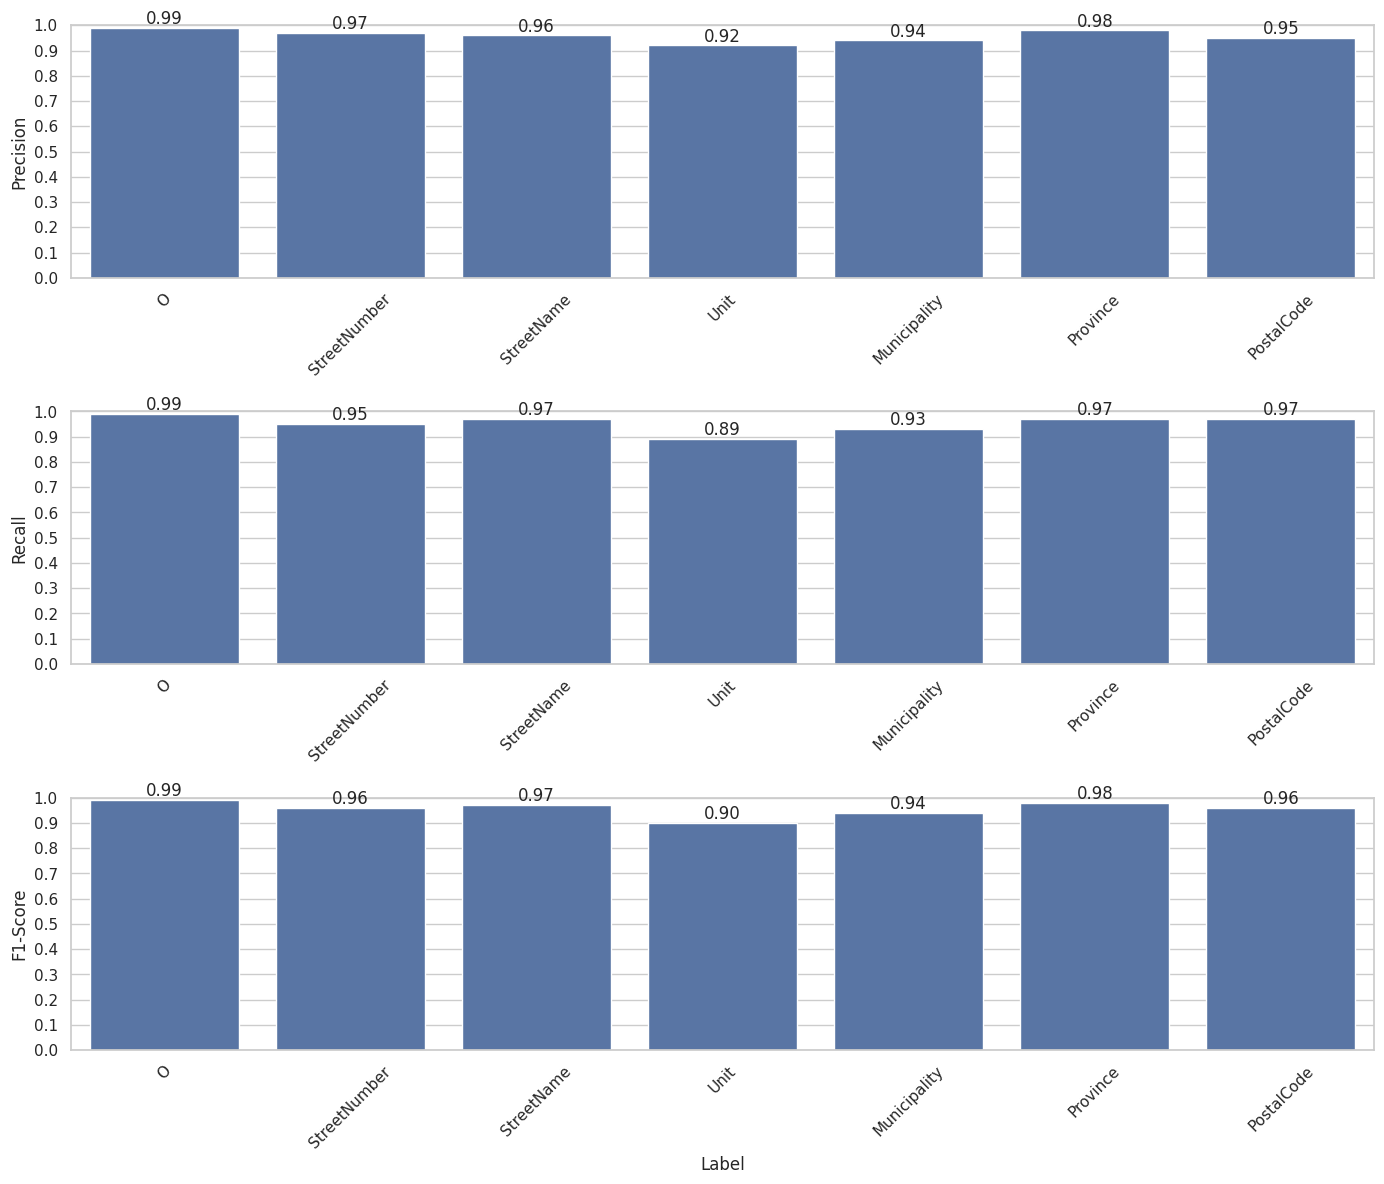
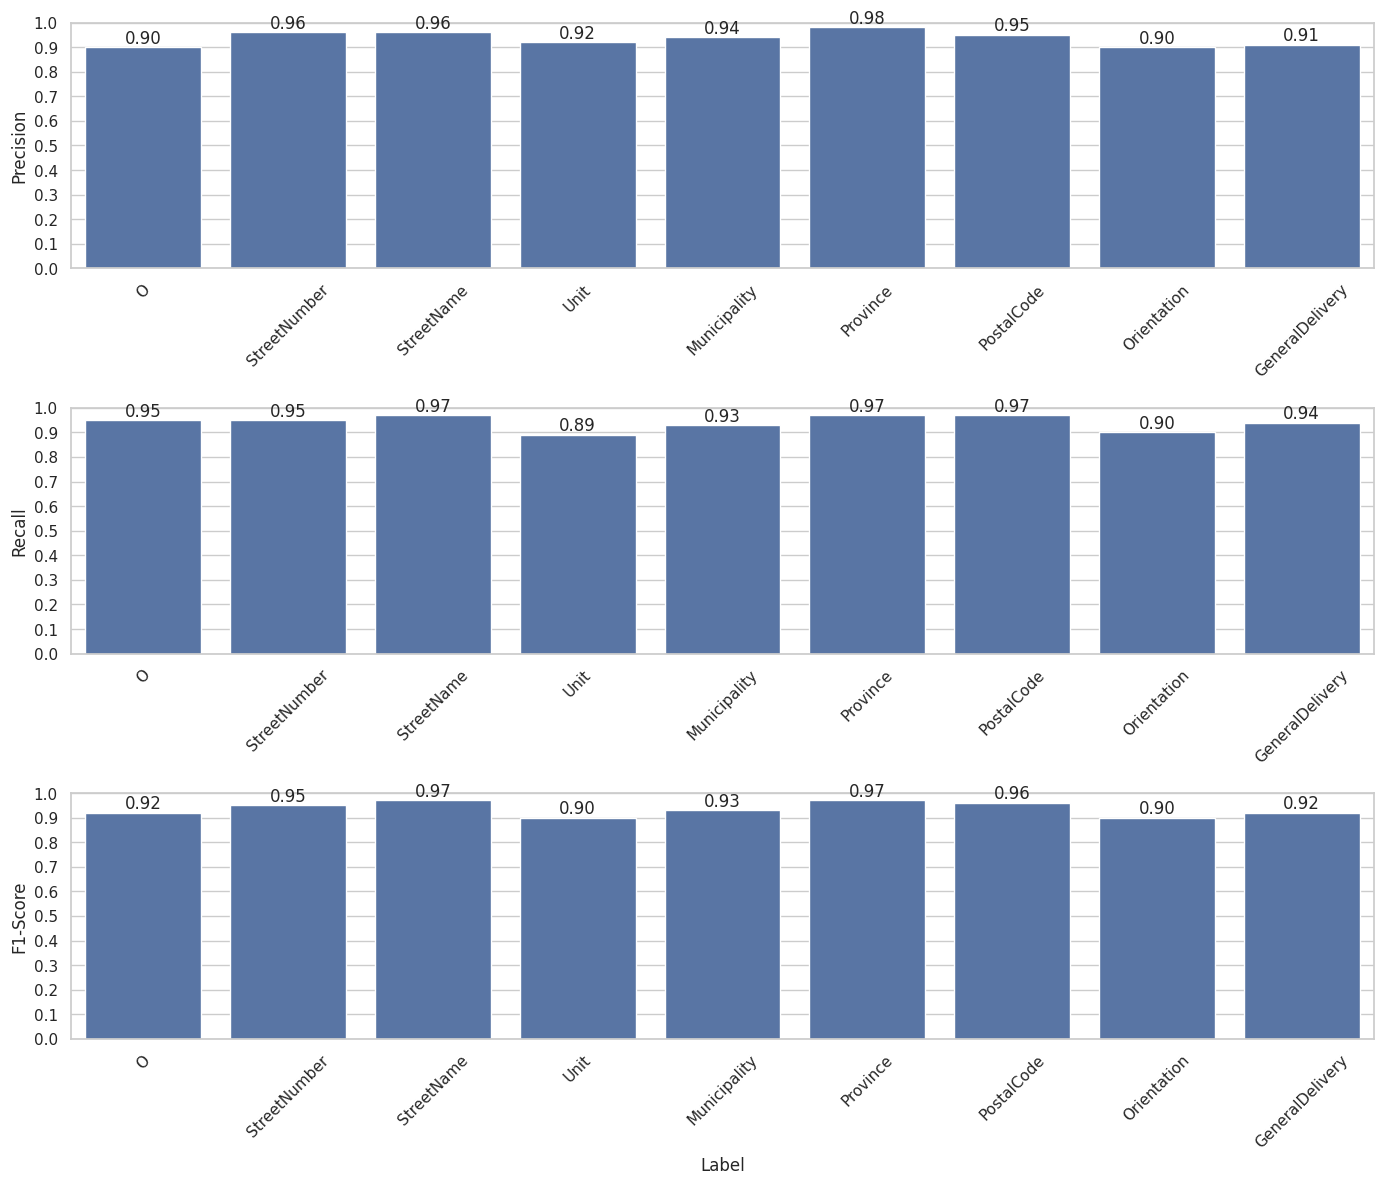
DIAGRAM README METRICS

diff --git a/README.md b/README.md
@@ -52,7 +52,7 @@ After that the scraper sorts the found  addresses based on their probability and
 ## Formatting the address
 
 The model has a good accuracy, but given the incredible variability we can't use only the first prediction in the list, so we have to make use of all of them.
-To formatt the address, the regex approach doesn't yield good results for only one country, let alone 10 or 20 more, so a NER model approach is preffered.  
+To format the address, the regex approach doesn't yield good results for only one country, let alone 10 or 20 more, so a NER model approach is preferred.  
 The NER formatter checks all the addresses in the list and chooses the one that has the most attributes matched(eg. 'Russell Road, Edinburgh EH11 2LS' outputs the road, the city and the postcode while 'Edinburgh EH11 2LS' the city and the postcode, so the model will pick the first one.)
 
 ## NER model for Formatting
@@ -69,9 +69,9 @@ In this example the model should mark text as follows:
 'EH11 2LS' with PostalCode tags  
 
 To achieve this, a pretrained DistilBert is fine-tuned with a FC layer with 9 labels : ['O', 'StreetNumber', 'StreetName', 'Unit', 'Municipality', 'Province', 'PostalCode', 'Orientation', 'GeneralDelivery'].I used a dataset with annotated   addresses from US, UK, DE, FR, ES, CZ and AU with a randomized text insertion function which inserts random text generated with gpt2 at beginning, end or in the middle like this:     
-For 'Russell Road, Edinburgh EH11 2LS' it will output "'Some random text' Russell Road, Edinburgh EH11 2LS 'other random text'". with 'O' tags added to the labels list for the random text.This tehnique worked best for labeling the irrelevant text surrounding the address.
+For 'Russell Road, Edinburgh EH11 2LS' it will output "'Some random text' Russell Road, Edinburgh EH11 2LS 'other random text'". with 'O' tags added to the labels list for the random text.This technique worked best for labeling the irrelevant text surrounding the address.
 
-I'm using DistilBert because it's fast'for training but mor important for inference; we we will use it 3 times on each website because we try to format the first 3 picks of the address classification model.
+I'm using DistilBert because it's fast for training but more important for inference; we we will use it 3 times on each website because we try to format the first 3 picks of the address classification model.
 
 Afer playing out a bit with the hyper-parameters, I built an accurate model with a prediction rate of 95% on unseen data, supporting those countries ['us', 'de', 'uk', 'fr', 'au', 'cz', 'es'].
 
@@ -97,14 +97,14 @@ I've optimised the crawler so as the translator API has minimum usage(the free t
 Also, because each website takes on average 3 seconds, I've written a simple multi-threading script to reduce the time needed for crawling 2500 websites from 150 minutes to 60 minutes with 3 threads.
 
 Below is a diagram of the architecture:
-![Crawler](diagram.png "Crawler architecture")
+![Crawler](Diagram.png "Crawler architecture")
 
 All the processes are handled with try except blocks and written in a 'logs' file.
 ## How to use
 1. Download the checkpoints of the NER model and the Classification model from the links below([1] and [2])and keep the names  
 2. Install dependencies with 'pip install -r requirements.txt'  
 3. Run 'run.py <file_path_containing_websites>'  
-4. To use the multi-threaded version un-comment the code for it and specify how many workers do you need.I reccomend maximum 5, but If you have computational   super-powers you can use as many as you want until it crashes :)  
+4. To use the multi-threaded version un-comment the code for it and specify how many workers do you need.I recommend maximum 5, but If you have computational   super-powers you can use as many as you want until it crashes :)  
 5. The outputs are in 'results.csv' file in the format 'website, formatted_address, top_candidates'  
 6. The logs are in 'logs' file with all the errors and exceptions.
 
